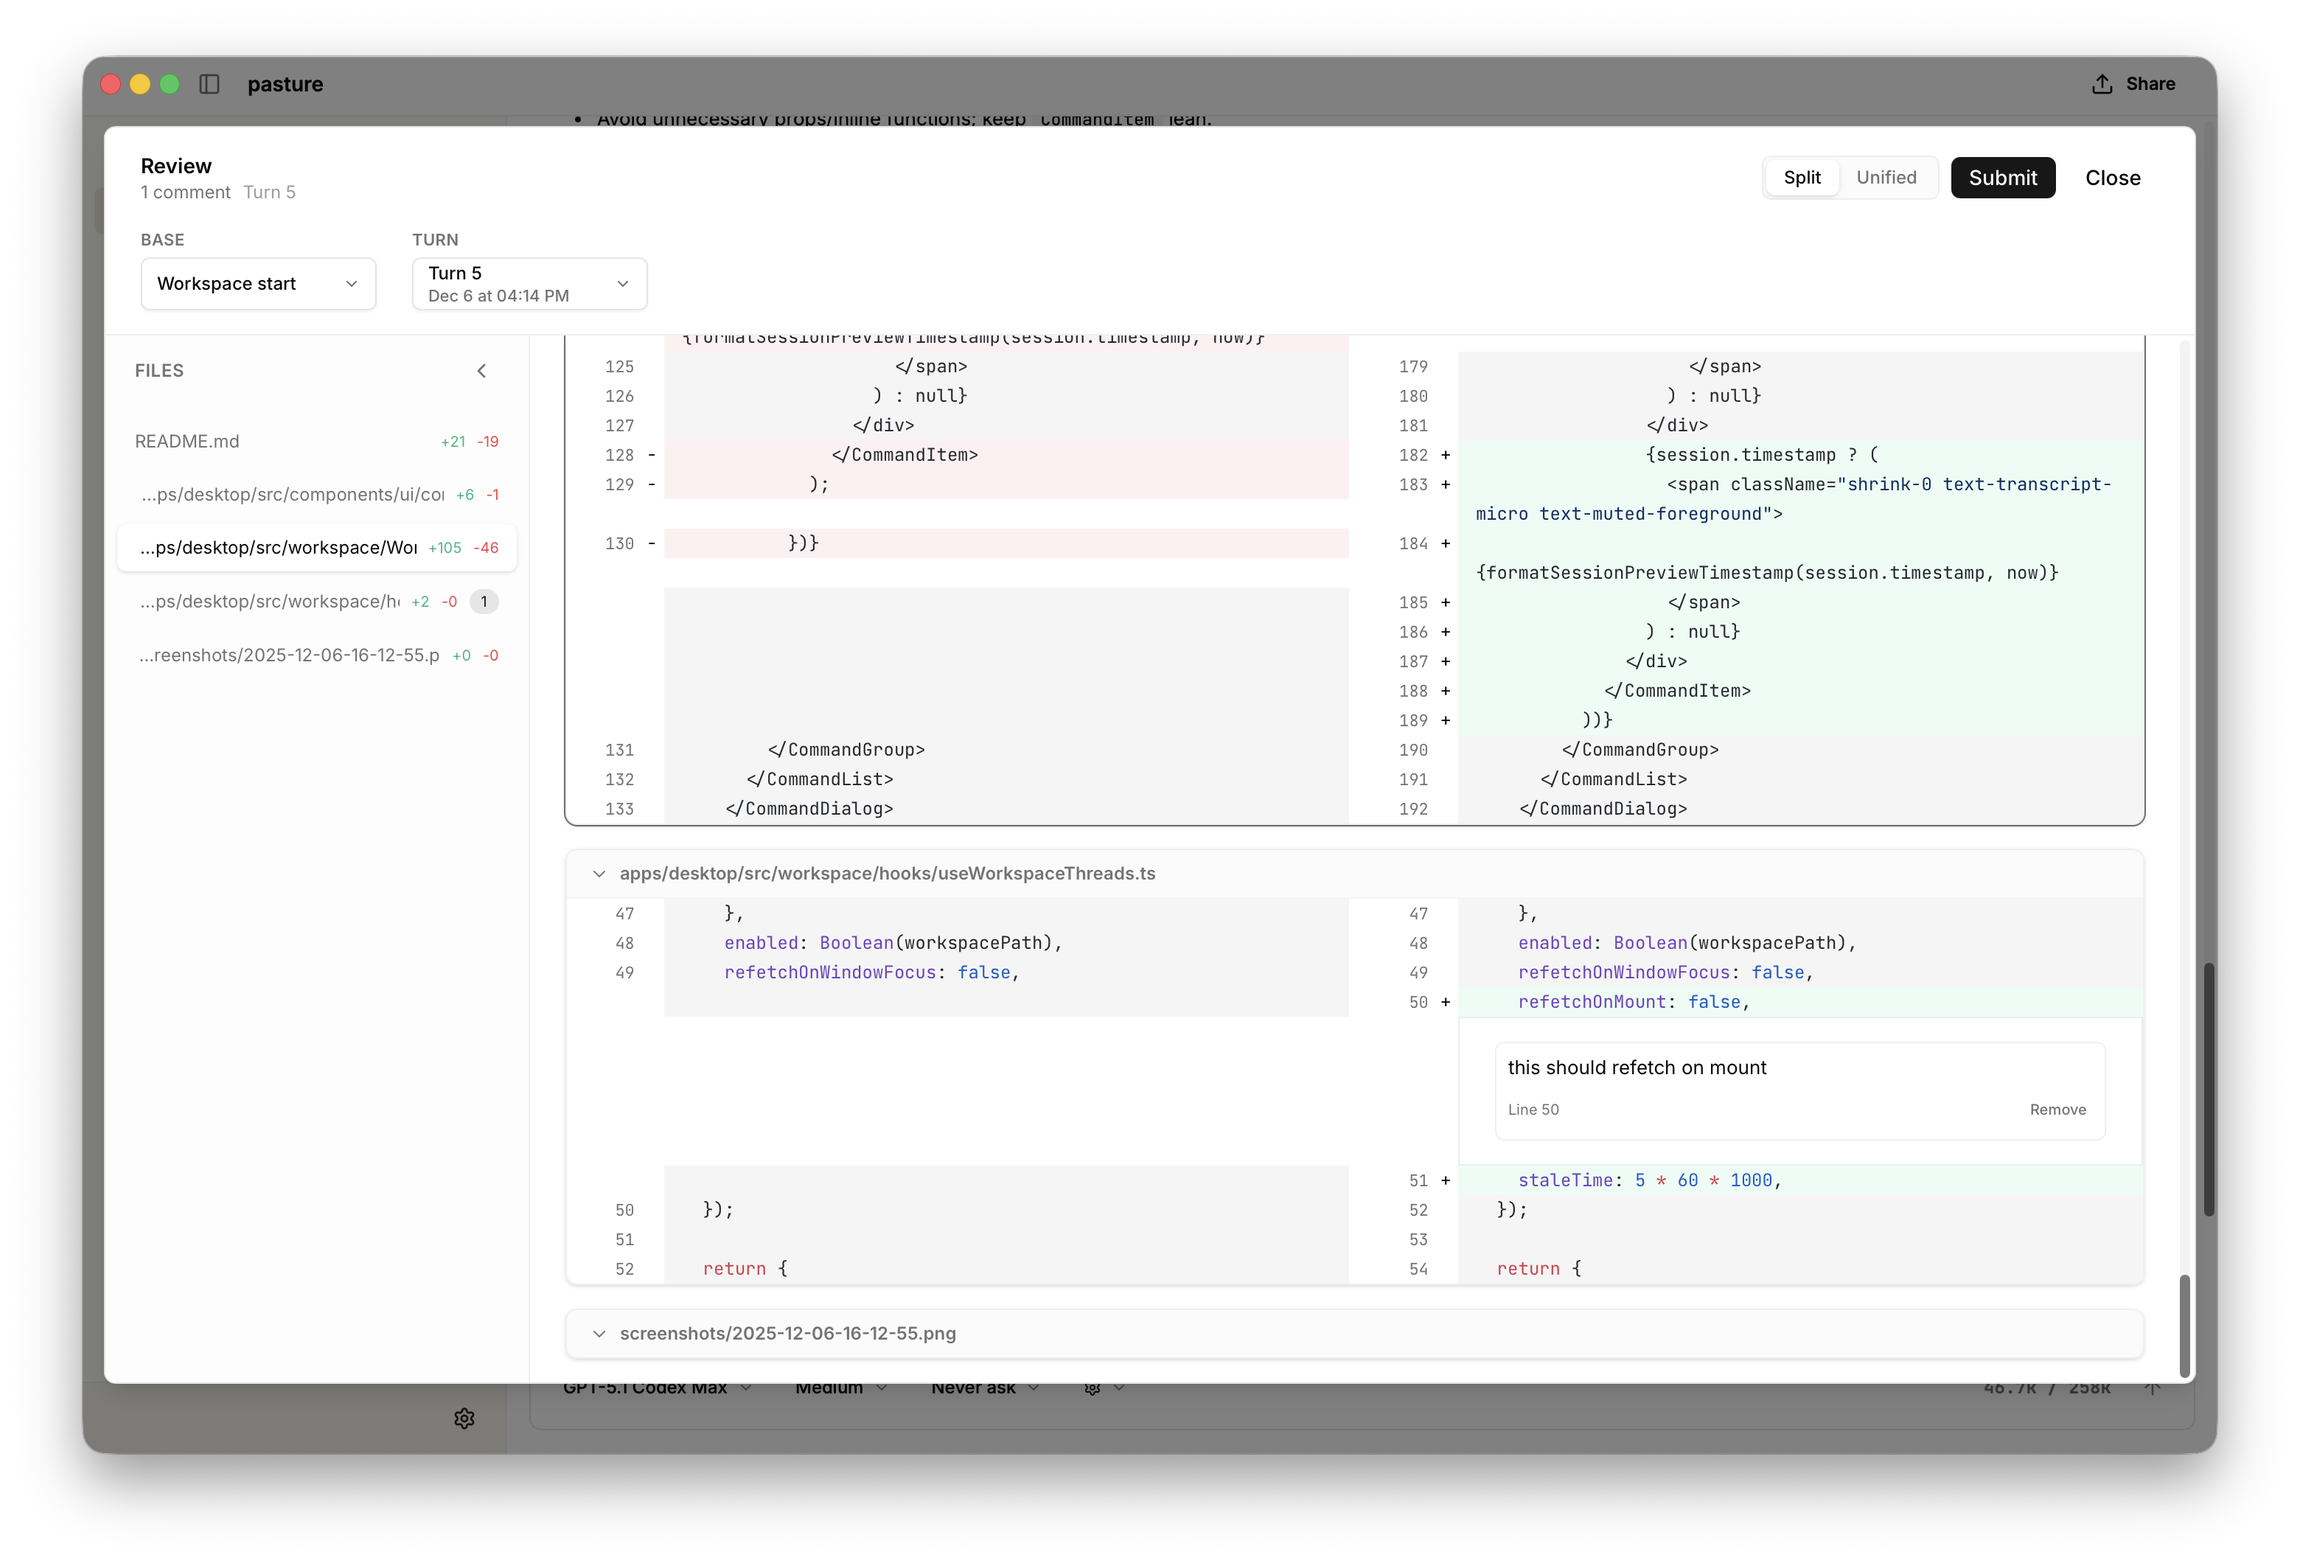
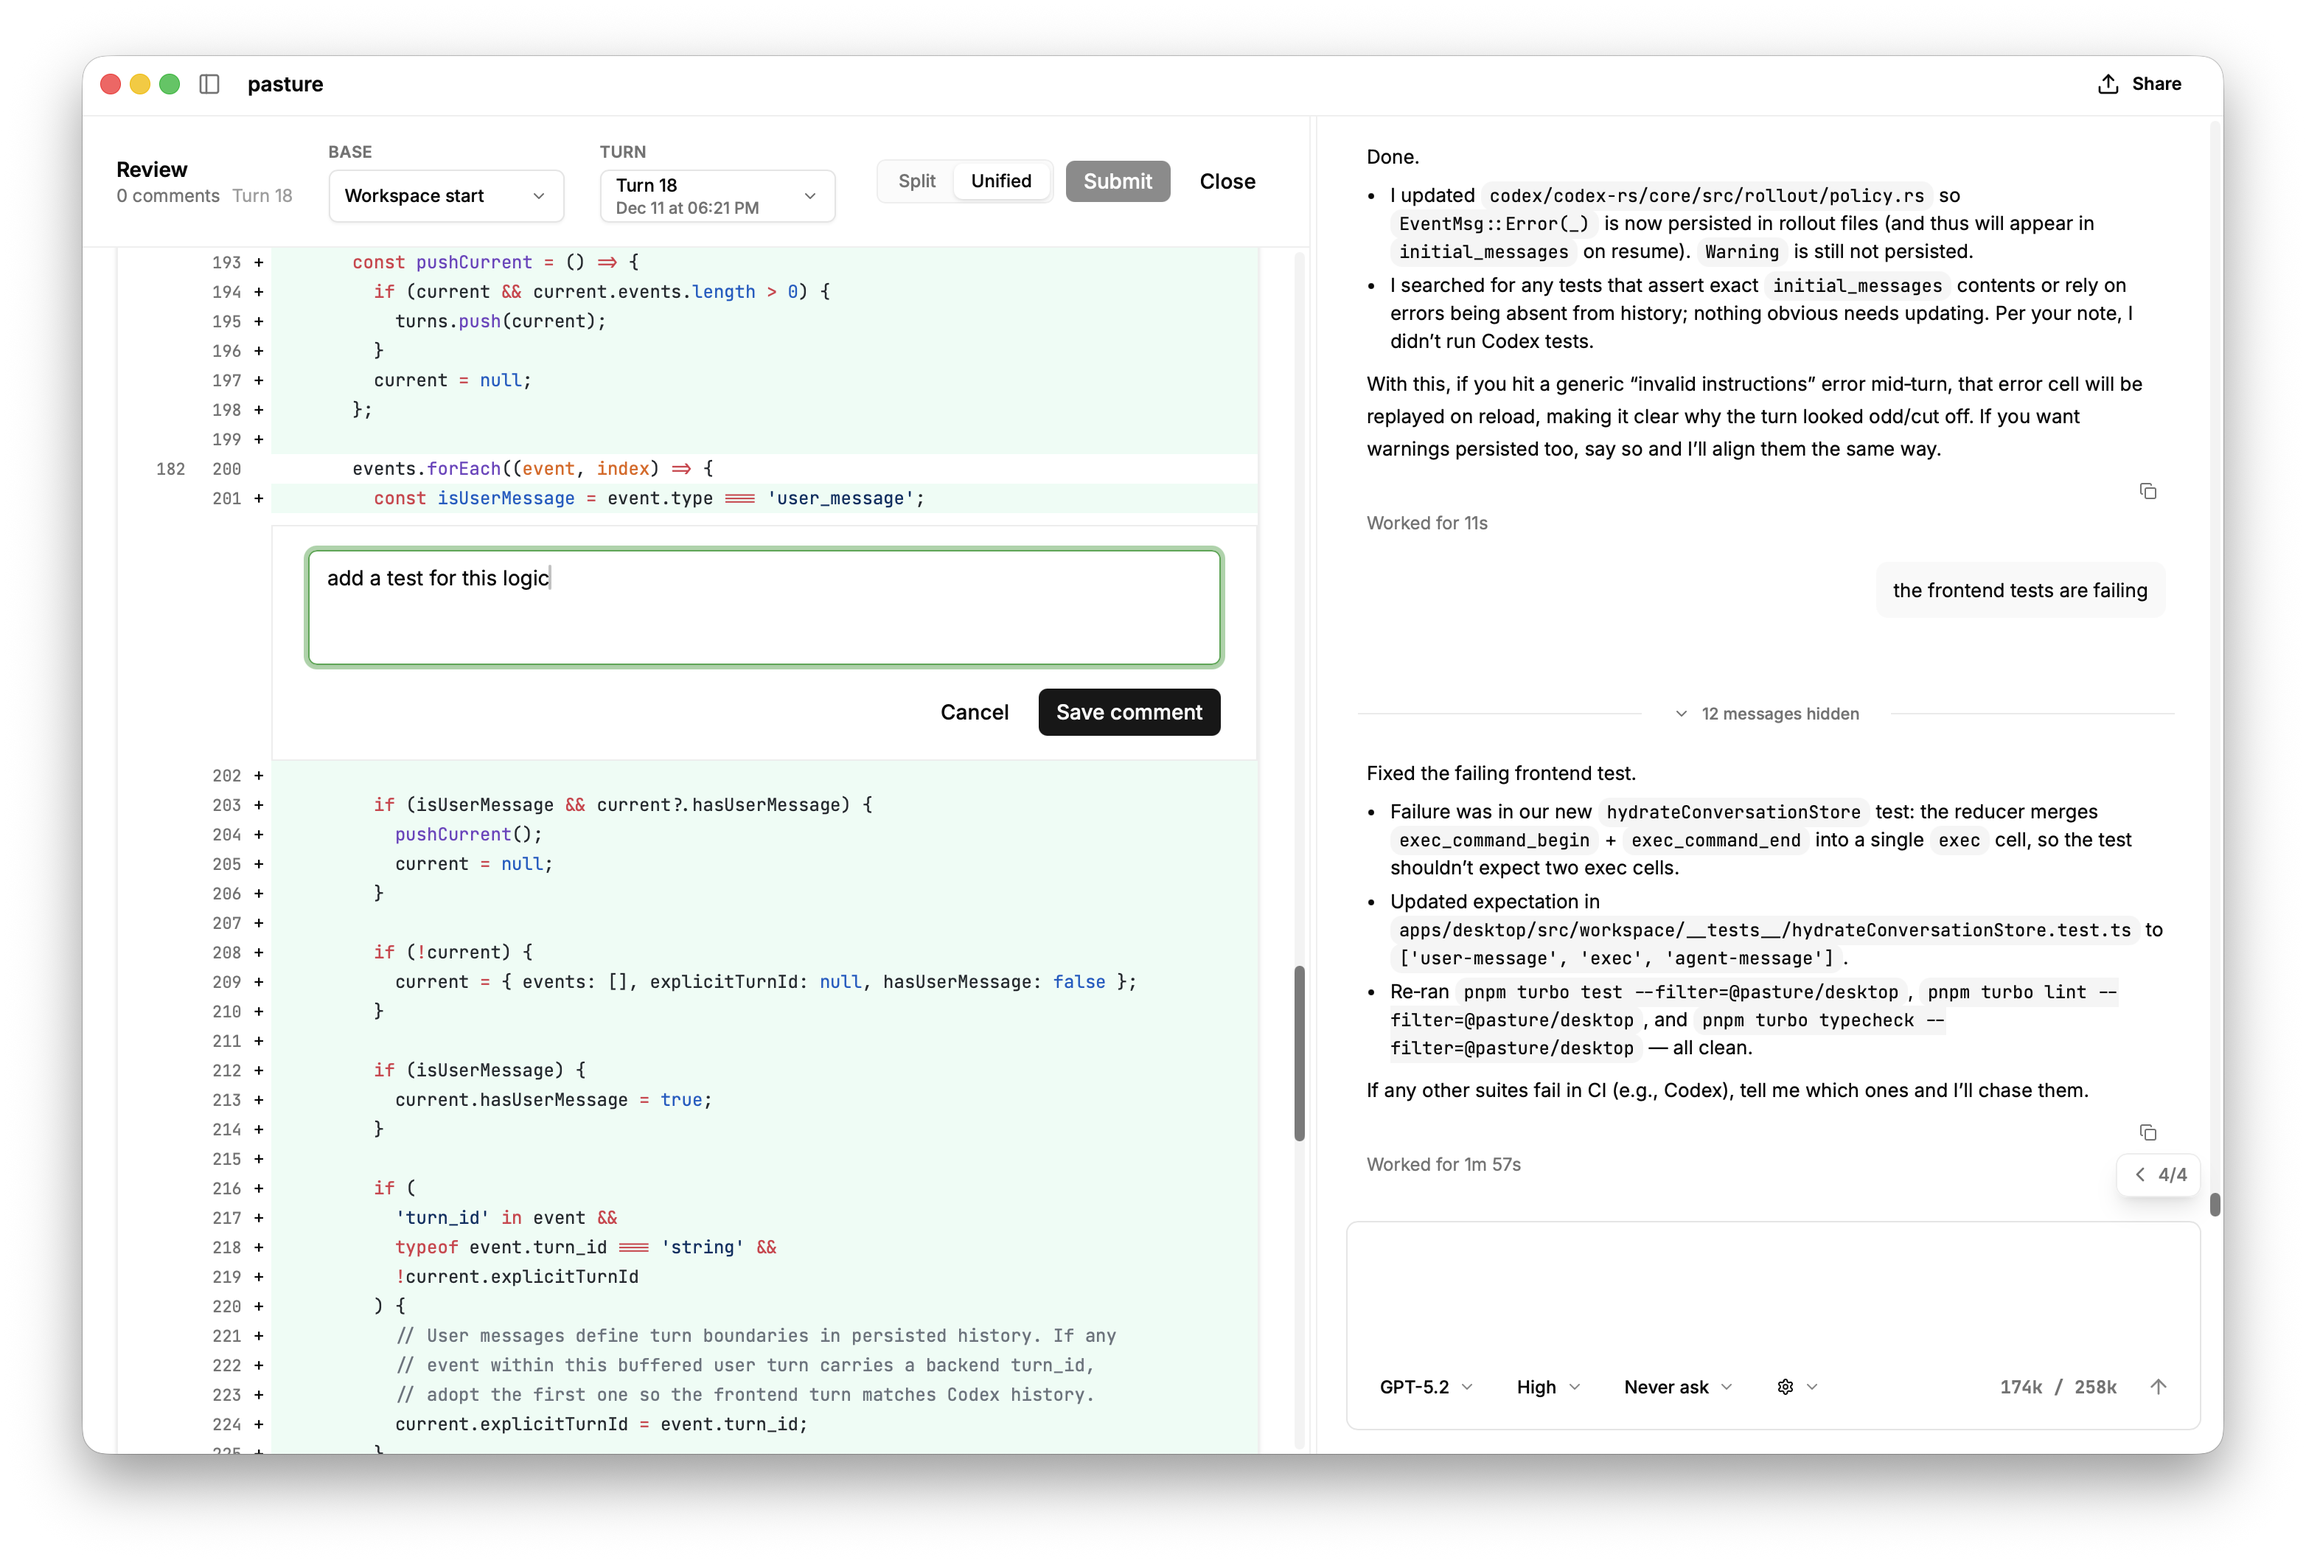
update README

diff --git a/README.md b/README.md
@@ -18,7 +18,7 @@
 
 ## Overview
 
-Pasture is a GUI client built on top of OpenAI's [codex](https://github.com/openai/codex) agent harness.
+Pasture is a GUI for Codex built for developers who want more control than a TUI. Branch conversations, annotate message/code output like a PR, and use Handoff and Read Thread to keep threads short and focused.
 
 ## Getting Started
 
@@ -44,7 +44,7 @@ Edit any message to fork the conversation into a new branch. Pasture maintains a
 
 ### Comment on Messages
 
-GPT-5.1 produces excellent plans. Often times, these plans are very long- which I've found frustrating to construct replies to in order to provide feedback and further steer the plan. 
+The GPT-5.* family of models produce excellent plans. Often times, these plans are very long- which I've found frustrating to construct replies to in order to provide feedback and further steer the plan. 
 
 Pasture allows you to highlight portions of a response and add comments. This let's you build up a larger "feedback message". Clicking `Insert review as message` provides you with a formatted message such as,
 
@@ -76,6 +76,14 @@ I've found this useful for batching up changes after a turn instead of stopping 
 
 <img src="screenshots/file-commenting.png" width="100%" />
 
+### Handoff
+
+Modeled after [Amp's handoff feature](https://ampcode.com/news/handoff), `/handoff` extracts the relevant context from the current thread based on your goal for the next thread. Under the hood, it uses the latest GPT-5.x model to produce a prompt and pre-fill the composer with it in the new thread, so that you can review and edit it before sending- just like in Amp.
+
+### `read_thread` Tool
+
+Pasture's fork of Codex adds a `read_thread` tool modeled again after [Amp's version of it](https://ampcode.com/news/read-threads). This tool allows the agent to ask questions about the referenced thread- allowing it to pull additional context it needs. It pairs excellently with the `/handoff` feature.
+
 ### Sharing
 
 Click "Share" in the top bar to generate a public link (`https://pasture.dev/s/$id`) of your transcript. The web viewer includes the full conversation, code diffs, and rich OpenGraph metadata for clean previews on social platforms.
@@ -96,18 +104,23 @@ Click "Share" in the top bar to generate a public link (`https://pasture.dev/s/$
 
 ## Nice-to-Knows
 
-- **Generated session titles**: Pasture generates titles based on your first user message, but only if no title exists. The generation pipeline respects your workspace settings.
+- **Generated session titles**: Pasture generates titles based on your first user message, but only if no title exists.
 - **Session management**: The sidebar only displays active/loaded sessions. Resume previous sessions via "Open" or `⌘P`. Use `Ctrl+Tab` for a recent‑conversation switcher overlay.
 - **Queued messages**: Start a new prompt while a turn is running—it queues automatically. Review or cancel queued messages in the status indicator.
 - **Images in transcript**: Pasted images appear as attachments in the composer and render as `view-image` tool cells in the transcript with full metadata.
 - **Auto‑updates**: Pasture checks for updates on startup and via the native menu, with an in‑app dialog for seamless upgrades.
-- **Resuming tool calls**: Tool calls may not appear when you resume a conversation—Codex only saves messages and reasoning blocks to rollout history. They’re still in the context window and will be referenced in future turns.
+
+### Codex behavior differences in our fork
+
+In addition to adding some new tasks and tools, here's a running a list of the behavioral changes in our fork of Codex:
+
+- The rollout recorder persists many more event types. This allows resumed sessions to display changed files and see the output of commands / patches in the transcript.
 
 ## Current Limitations
 
 Here's what's not built yet:
 
-- **MCP servers**: If you have them configured via codex-cli, they *might* work? I don't use MCPs myself, so I haven't tested this.
+- **MCP server configuration**: While there's no UI for it in Pasture, adding them to your Codex config.toml should let you use MCP servers. 
 - **Custom models/APIs**: Codex supports various models and providers, but I haven't exposed that in the UI yet.
 
 If you hit weird behavior, please file a bug report with your `config.toml` so I can see what needs to be implemented.
